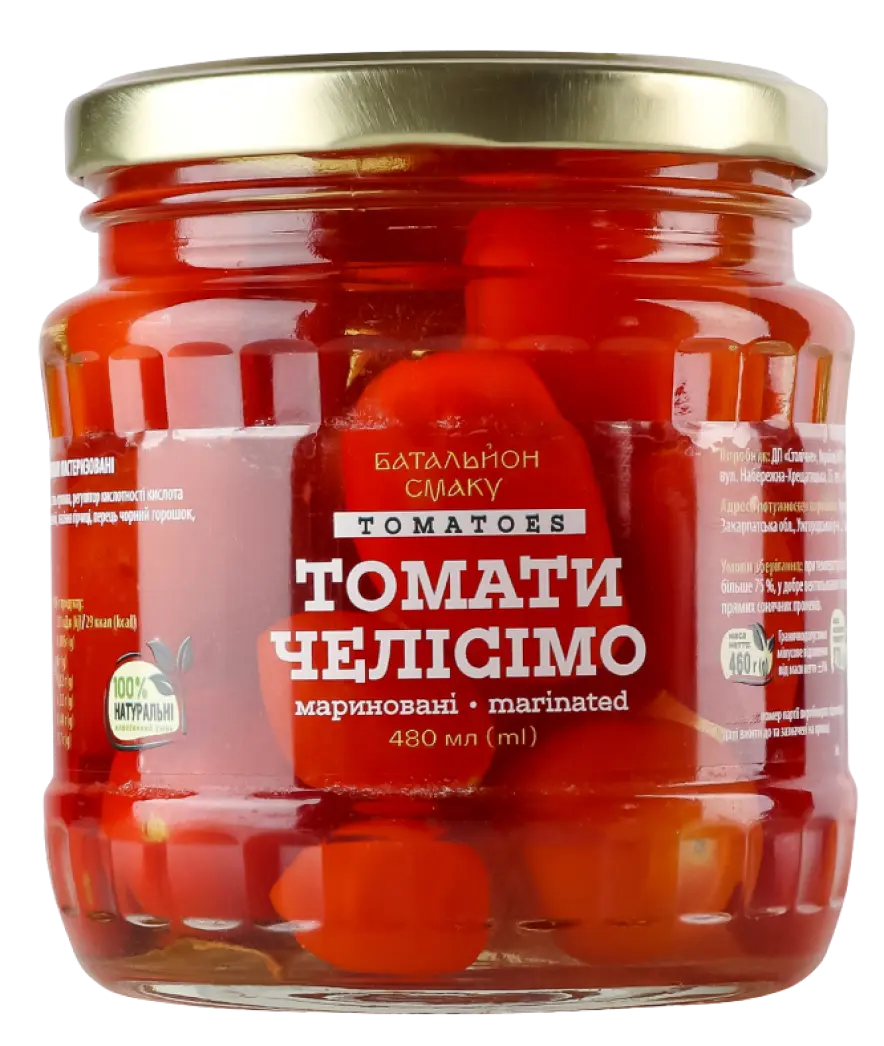
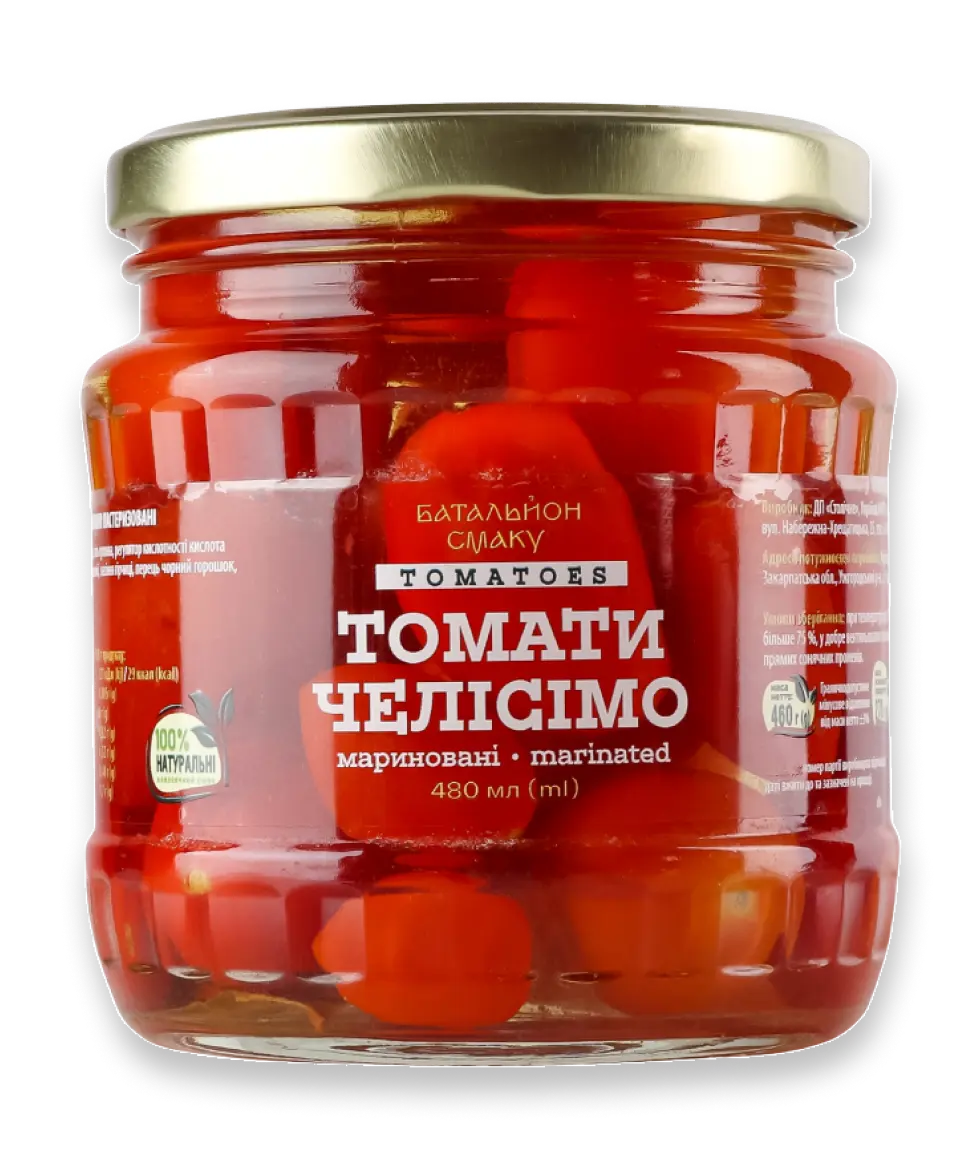
updated products images

diff --git a/src/components/products/catalog/CatalogCard.tsx b/src/components/products/catalog/CatalogCard.tsx
@@ -12,7 +12,7 @@ export default function CatalogCard({ product }: CatalogCardProps) {
   const { id, trademark, title, volume } = product;
 
   return (
-    <li className="relative flex flex-col items-center w-[47.6%] h-[290px]">
+    <li className="relative flex flex-col items-center w-[47.6%] tab:w-[48.9%] laptop:w-[31.9%]">
       <div className="flex flex-col items-center justify-end w-full aspect-[156/168]">
         <Image
           src={`/images/backgrounds/productsCatalog/productCardBg.svg`}
@@ -24,17 +24,17 @@ export default function CatalogCard({ product }: CatalogCardProps) {
         <Image
           src={`/images/contentImages/products/${trademark.id}-${id}-${volume}.webp`}
           alt={title}
-          width={760}
-          height={1116}
-          className="w-[97px] h-auto"
+          width={968}
+          height={1152}
+          className="w-[62.2%] h-auto"
         />
       </div>
       <h3 className="mt-4 text-16med tab:text-24med text-center">{title}</h3>
-      <p className="text-16med tab:text-24med text-greenDark">
+      <p className="text-16med tab:text-24med text-greenDark text-center">
         {volume}&nbsp;
         {t("ml")}
       </p>
-      <p className="text-14reg tab:text-18reg">
+      <p className="text-14reg tab:text-18reg text-center">
         {t("trademark")}&nbsp;{trademark.title}
       </p>
     </li>

diff --git a/src/mockedData/products.ts b/src/mockedData/products.ts
@@ -40,7 +40,7 @@ export const productsList = {
       id: "cucumbers",
       trademark: { id: "bataljon", title: "Батальйон Смаку" },
       title: "Огірки",
-      volume: "550",
+      volume: "580",
     },
     {
       id: "cucumbers",
@@ -63,7 +63,7 @@ export const productsList = {
     {
       id: "tomatoes",
       trademark: { id: "bataljon", title: "Батальйон Смаку" },
-      title: "Томати",
+      title: "Томати Челісімо",
       volume: "480",
     },
     {

diff --git a/src/components/products/catalog/CatalogList.tsx b/src/components/products/catalog/CatalogList.tsx
@@ -11,7 +11,7 @@ export default function CatalogList() {
   const localizedProductsList = productsList[locale as Locale] as ProductItem[];
 
   return (
-    <ul className="flex flex-wrap justify-between gap-y-6">
+    <ul className="flex flex-wrap justify-between gap-y-6 tab:gap-y-10 laptop:gap-y-16">
       {localizedProductsList.map((product, idx) => (
         <CatalogCard key={idx} product={product} />
       ))}
